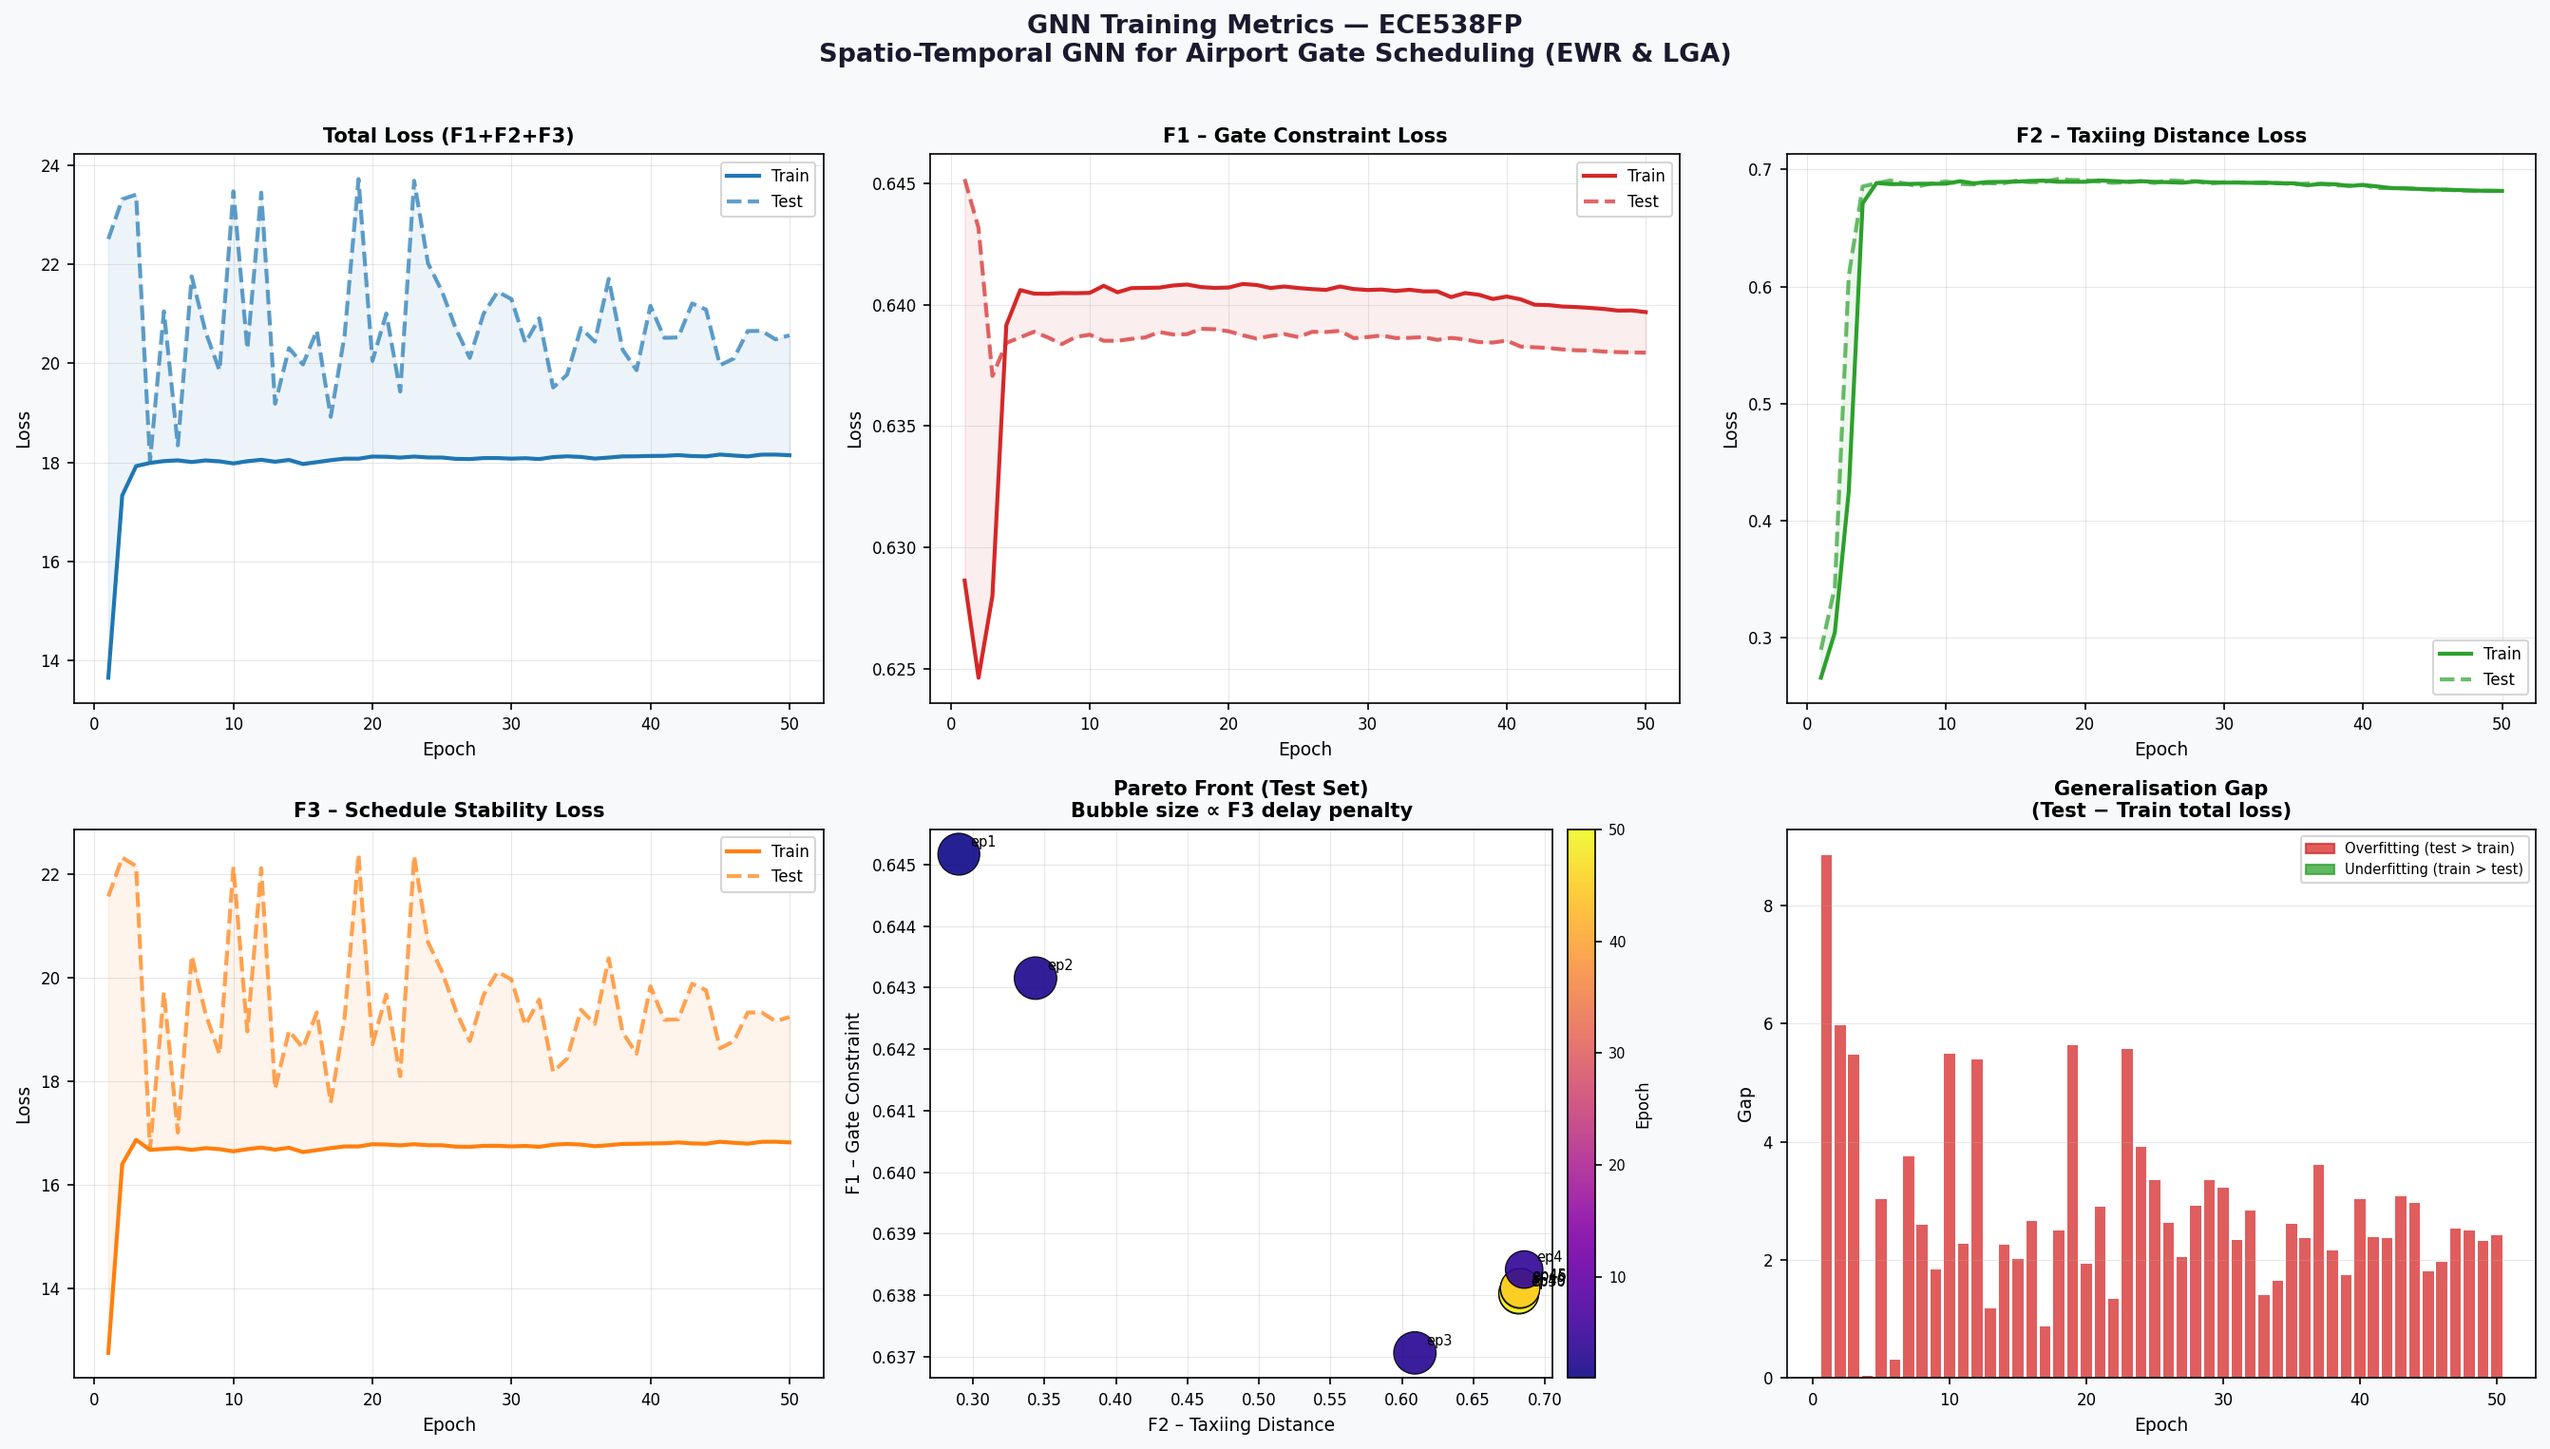
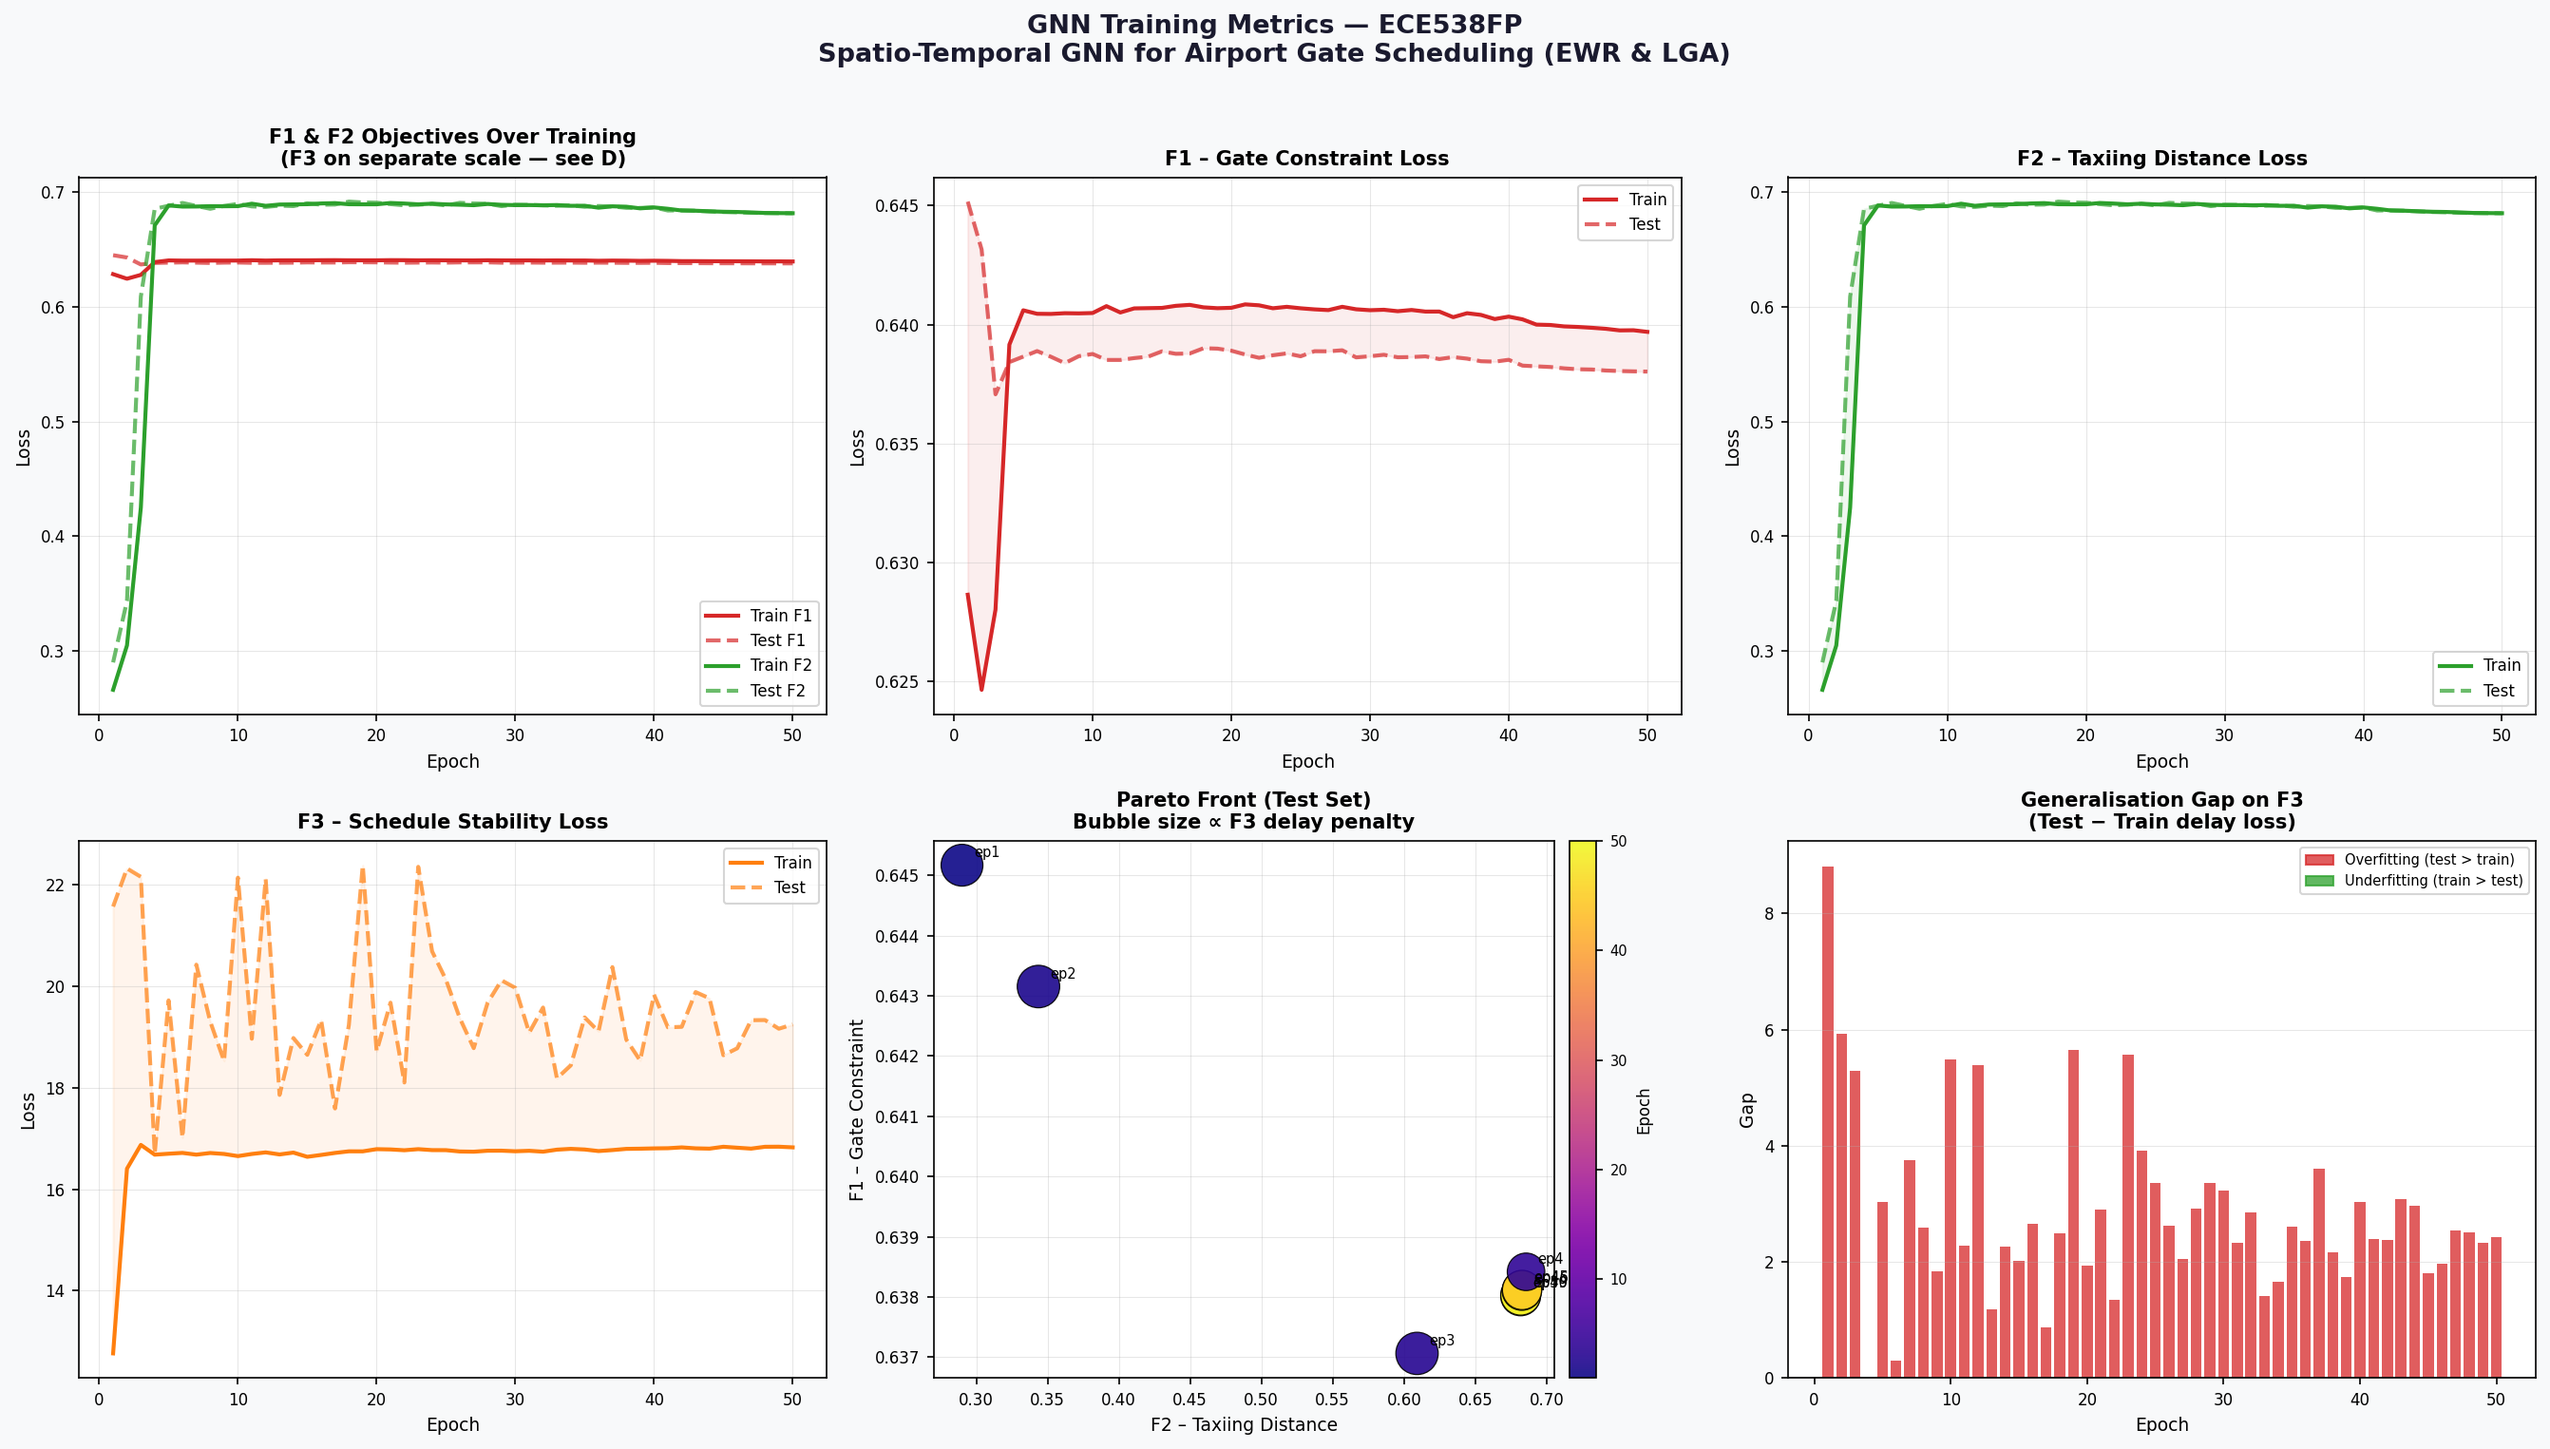
Fix training metrics plot to remove misleading total loss panel

diff --git a/src/plot_training.py b/src/plot_training.py
@@ -36,10 +36,6 @@ def main():
     hist = pd.read_csv(HIST_CSV)
     epochs = hist["epoch"].values
 
-    # Compute total loss as sum of the three objectives
-    hist["train_total"] = hist["train_F1"] + hist["train_F2"] + hist["train_F3"]
-    hist["test_total"]  = hist["test_F1"]  + hist["test_F2"]  + hist["test_F3"]
-
     fig, axes = plt.subplots(2, 3, figsize=(18, 10), facecolor="#f8f9fa")
     fig.suptitle(
         "GNN Training Metrics — ECE538FP\n"
@@ -47,14 +43,26 @@ def main():
         fontsize=13, fontweight="bold", y=1.01, color="#1a1a2e"
     )
 
+    # All three objectives on one panel for direct comparison
+    ax_all = axes[0, 0]
+    ax_all.plot(epochs, hist["train_F1"], color="#d62728", linewidth=2, label="Train F1")
+    ax_all.plot(epochs, hist["test_F1"],  color="#d62728", linewidth=2, linestyle="--", alpha=0.7, label="Test F1")
+    ax_all.plot(epochs, hist["train_F2"], color="#2ca02c", linewidth=2, label="Train F2")
+    ax_all.plot(epochs, hist["test_F2"],  color="#2ca02c", linewidth=2, linestyle="--", alpha=0.7, label="Test F2")
+    ax_all.set_title("F1 & F2 Objectives Over Training\n(F3 on separate scale — see D)", fontweight="bold", fontsize=10)
+    ax_all.set_xlabel("Epoch", fontsize=9)
+    ax_all.set_ylabel("Loss", fontsize=9)
+    ax_all.legend(fontsize=8)
+    ax_all.grid(True, alpha=0.3, linewidth=0.5)
+    ax_all.tick_params(labelsize=8)
+
     plot_cfg = [
-        ("train_total", "test_total", "Total Loss (F1+F2+F3)", "#1f77b4"),
-        ("train_F1",    "test_F1",    "F1 – Gate Constraint Loss",    "#d62728"),
-        ("train_F2",    "test_F2",    "F2 – Taxiing Distance Loss",   "#2ca02c"),
-        ("train_F3",    "test_F3",    "F3 – Schedule Stability Loss", "#ff7f0e"),
+        ("train_F1", "test_F1", "F1 – Gate Constraint Loss",    "#d62728"),
+        ("train_F2", "test_F2", "F2 – Taxiing Distance Loss",   "#2ca02c"),
+        ("train_F3", "test_F3", "F3 – Schedule Stability Loss", "#ff7f0e"),
     ]
 
-    for ax, (tr_col, te_col, title, colour) in zip(axes.flat[:4], plot_cfg):
+    for ax, (tr_col, te_col, title, colour) in zip(axes.flat[1:4], plot_cfg):
         ax.plot(epochs, hist[tr_col], color=colour, linewidth=2, label="Train", zorder=3)
         ax.plot(epochs, hist[te_col], color=colour, linewidth=2, linestyle="--",
                 alpha=0.7, label="Test", zorder=3)
@@ -98,11 +106,12 @@ def main():
 
     # Panel F: Train/Test gap over epochs
     ax_gap = axes[1, 2]
-    gap = hist["test_total"] - hist["train_total"]
+    # Use F3 for the gap since it's the dominant and most volatile objective
+    gap = hist["test_F3"] - hist["train_F3"]
     colours = ["#d62728" if g > 0 else "#2ca02c" for g in gap]
     ax_gap.bar(epochs, gap, color=colours, alpha=0.75, width=0.8)
     ax_gap.axhline(0, color="black", linewidth=0.8)
-    ax_gap.set_title("Generalisation Gap\n(Test − Train total loss)",
+    ax_gap.set_title("Generalisation Gap on F3\n(Test − Train delay loss)",
                      fontweight="bold", fontsize=10)
     ax_gap.set_xlabel("Epoch", fontsize=9)
     ax_gap.set_ylabel("Gap", fontsize=9)
